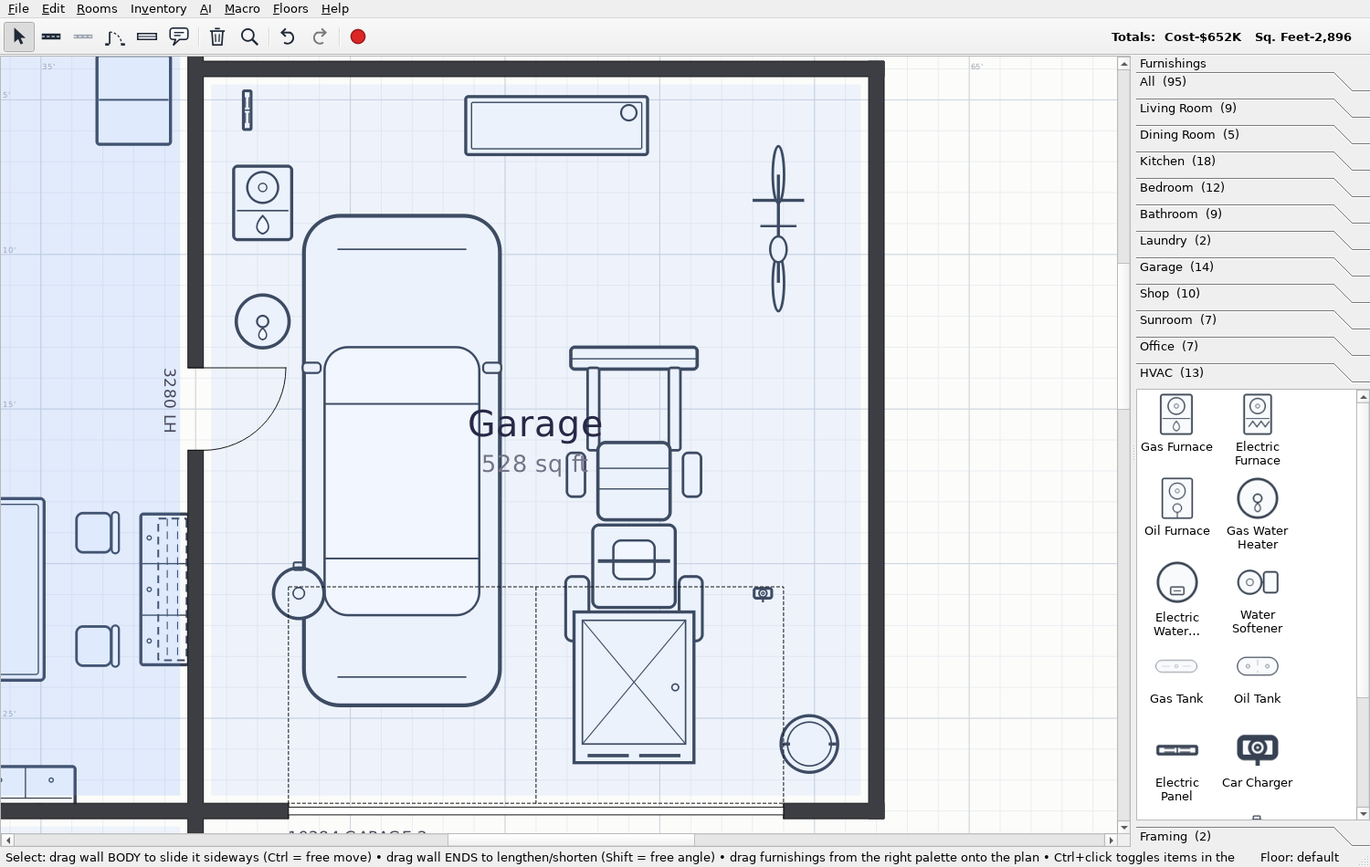
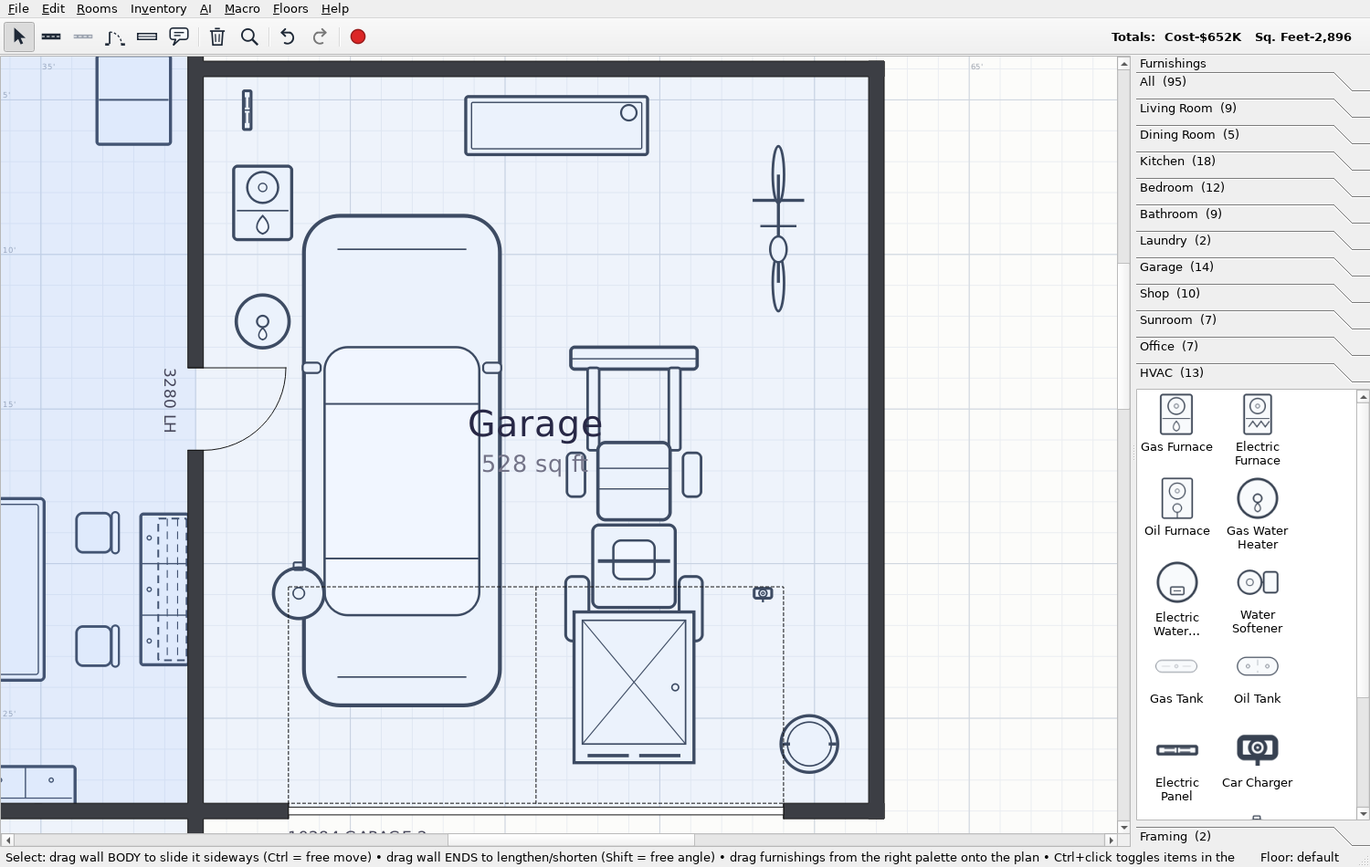
docs: tick P3.5, log the run, close defects 8/13/16, register the P3.7 regression
Plan: P3.5 ticked in the status table; the Progress log's mid-task "NOT DONE"
block replaced by the (2)/(3)/(4) sub-commit entries and four exit checks
(measured deletion vs the census, rider 1's headline, before/after perf,
tooling). New Known-regressions row: an open side of a room is not DRAWN
between P3.5 and P3.7 -- the dashed OpenWall placeholder's producer is gone and
the fact moved onto the outline, where the document always kept it.

Review: defect 8 closed with both halves described; defect 16 closed
structurally; defect 13 recorded as HALF closed, half retargeted, with the
measurement that earns the split -- detection was identical at every zoom
0.25x-4x, the drag was not.

CLAUDE.md: the "no new callers" list is now accurate (coalesce/weld went at
P3.4, the detection engine at P3.5, only OpenWall is still pending); the
Performance section says what replaced the hot path and quotes the measured
64-room numbers; the floors paragraph names the surviving scoped queries.

README: the open-wall paragraph no longer promises a dashed line it does not
currently draw, and says which task restores it.

tests/bench_rooms.py: retitled -- it measured room re-detection and the memo in
front of it, and now measures the wall rebuild and junction pass alone.

Changed region(s): [[0.0, 0.0611, 0.1533, 0.9463]]

diff --git a/tests/bench_rooms.py b/tests/bench_rooms.py
@@ -1,9 +1,12 @@
 #!/usr/bin/env python3
-"""Micro-benchmark for room re-detection cost (the main editor hot path).
+"""Micro-benchmark for `rebuild_all_walls` (the main editor hot path).
 
-`rebuild_all_walls` -> `refresh_rooms` re-detects every room after any wall
-edit.  This builds grids of rooms of growing size and times one
-`rebuild_all_walls`, so we can track the cost as plans get larger.
+It used to end in `refresh_rooms`, re-detecting every room whose nearby walls
+had changed after any wall edit; P3.5 deleted that -- a room's region derives
+from its outline, and the outline holds the walls' own corner vertices, so
+there is nothing to re-detect.  What this now times is the wall rebuild and the
+junction pass alone.  Still worth tracking: it builds grids of rooms of growing
+size and times one `rebuild_all_walls`, so the cost is visible as plans grow.
 
 Run:  python tests/bench_rooms.py [--profile]
 """
@@ -60,9 +63,11 @@ def main():
         print(f"{n}x{n}  {rooms:4d}  {walls:4d}   {dt:8.1f} ms       "
               f"{dt / max(rooms, 1):.2f} ms")
 
-    # memoized incremental refresh -- the realistic per-edit case
+    # the realistic per-edit case.  Before P3.5 this measured the room-detection
+    # MEMO (a no-op rebuild skipped the grid/graph build entirely); it now
+    # measures the wall rebuild itself, which no memo stands in front of.
     sc = build_grid(6)
-    FP.rebuild_all_walls(sc)                   # warm the per-room signatures
+    FP.rebuild_all_walls(sc)                   # warm any caches
     t = time.perf_counter()
     FP.rebuild_all_walls(sc)
     noop = (time.perf_counter() - t) * 1000
@@ -72,7 +77,7 @@ def main():
     t = time.perf_counter()
     FP.rebuild_all_walls(sc)
     edit = (time.perf_counter() - t) * 1000
-    print(f"\n6x6 memoized:  no-op rebuild {noop:.1f} ms   "
+    print(f"\n6x6 incremental:  no-op rebuild {noop:.1f} ms   "
           f"after moving 1 wall {edit:.1f} ms")
 
     if "--profile" in sys.argv:

diff --git a/docs/V5_MIGRATION_PLAN.md b/docs/V5_MIGRATION_PLAN.md
@@ -132,7 +132,7 @@ gap rather than papering over it.
 | ☑ | **P3.2** `RoomItem.outline`; drop `perimeter_corners` | ruff + pytest |
 | ☑ | **P3.3** Wall move = move vertices + split rule | ruff + pytest |
 | ☑ | **P3.4** Topology ops replace coalesce/weld/fracture | ruff + pytest |
-| ☐ | **P3.5** Delete the detection engine | ruff + pytest |
+| ☑ | **P3.5** Delete the detection engine | ruff + pytest |
 | ☐ | **P3.6** Opening anchors | ruff + pytest |
 | ☐ | **P3.7** Delete `OpenWall` | ruff + pytest |
 | ☐ | **P3.8** Perf verification vs P0.3 | ratios recorded |
@@ -259,6 +259,7 @@ Behaviour that is deliberately worse between the task that broke it and the task
 | Broken at | Behaviour | Workaround today | Restored at |
 |---|---|---|---|
 | **P0.5** (fix 4) | Rubber-band-select a room whose edge is a longer party wall, then group + move it — the region no longer follows. The walls captured by the band move; the room does not. | Drag the room by its **label** instead: `_privatize_shared_walls` handles the party wall correctly on that path. | **P4.2** (`extract` replaces the accidental privatisation with a real operation) |
+| **P3.5** | **An open side of a room is not drawn.** Detach a wall from its room and pull a corner away and the side opens — the room keeps its shape and area, and the document says `wall: null` exactly as before — but the vacated stretch renders as nothing rather than as a dashed line. The producer of the dashed `OpenWall` placeholder was `refresh_rooms` → `reloop_open_room` → `bind_room_walls`, all deleted here; the fact itself moved onto the outline (`RoomItem.open_edges()`), which is where the document had always kept it. | None needed for correctness — nothing is lost but the on-screen cue. The room's area, outline and saved file are unaffected. | **P3.7** (`OpenWall` is deleted and a `wall: null` edge renders dashed from the outline, which is the same cue drawn from the one representation instead of a second one) |
 | **P2.3** | **After the first undo, a wall that crosses a junction comes back split** — and if it borders NO room, body-dragging it moves only that segment. Measured at P3.3: one 480″ wall with a mid-span T returns as two 240″ walls. **Narrower than first recorded**: `_collinear_run()` (`walls.py:888`) gathers the whole room *side*, so for a wall on a room perimeter — the common case, and the one a user would notice — both halves still move as one. Verified with a room: `_collinear_run()` gathers 2 of 2. The row applies only to room-less walls, where `self.rooms` is empty and the run short-circuits to `[self]`. | Bind the wall to a room, or drag the halves together. Nothing is lost either way: the **document is unchanged**, since `design_from_scene` planarises to the same canonical form. | ~~P3.4~~ → **retargeted at P3.4 (iv), and the predicted fix was wrong on its own terms.** Re-checked by hand: the 480″ wall still returns as two 240″ segments, `merge_all` does **not** re-merge them, and the body-drag still moves one segment. It must not — the mid-span T is a **degree-3 vertex**, load-bearing for the planar subdivision, and merging through it would destroy planarity. `merge_collinear` refuses for exactly the right reason, so this row was never merge's to close. The fix belongs in the **drag's run-gathering**: `_collinear_run()` (`walls.py`) short-circuits to `[self]` when the wall borders no room, which is precisely the case the row describes. Gathering the run over **vertex adjacency** instead would carry both segments. Unassigned rather than invented — it is one small change, and the honest place is whichever task next touches the drag (**P4.2** extract/join is the nearest) |
 
 ### P0.6 — Cheap render wins
@@ -1846,9 +1847,16 @@ DEMO PORT: `w24` no longer exists as that wall. The demo named it, but ids are
          the chosen wall really has no collinear continuation -- the demo's own
          precondition -- so the first cannot pass by luck.
 
-P3.5  IN PROGRESS  (branch v5-topology) -- the flip has landed; the deletion
-         has not. Logged mid-task per the handoff-spec rule: a successor reads
-         the state from here plus the four riders in the P3.5 task text.
+P3.5  done   (branch v5-topology; five sub-commits)
+ruff:    clean
+pytest:  OFF  497 passed, 5 xfailed in 13.7s
+         ON   497 passed, 5 xfailed in 16.0s
+         DEEP 492 passed, 3 xfailed, 7 deselected in 15.4s
+         (baseline in: P3.4's 491/4/1.)
+commits: ac9ad45 (0) . 600fdef (1) . 02eff1e (2) . 733d7d6 (3) . f07dbdb (4)
+         Logged sub-commit by sub-commit per the handoff-spec rule, so a
+         successor reads the state from here plus the four riders at lines
+         416-424 rather than from a chat summary.
 (0) done   commit ac9ad45 -- doc-only, committed BEFORE any code per rider 2.
          THE RETARGET WAS ITSELF A FINDING: both P3.2 guards' docstrings named
          P3.4 as the task that would close the coordinates-vs-identity gap.
@@ -1890,13 +1898,228 @@ PERF, checked not assumed (the P3.1 lesson): test_bake flagged 8.83 against a
          threshold of 8 on the first full run. Re-ran three times -- 6.31 /
          6.89 / 7.17, absolutes 307-310 ms against P3.3's recorded 297-332 --
          so variance, not the new property read. Same call as P3.3's 7.78.
-NOT DONE: the deletion itself (the ~470 + 34), `enclosing_face` replacing
-         "detect room here" via the lift-to-Design at the six one-shot call
-         sites, the `room_boolean` rewrite (defect 8), defects 13 and 16, the
-         test_rooms.py / test_room_walls.py rewrites, and the headline check --
-         P3.3's Lounge / Front Porch demo (+/-17.5 sf) passing with
-         `refresh_rooms` DELETED, which is rider 1's real proof and can only be
-         run once the deletion lands.
+(2) done   commit 02eff1e -- the region derives from the outline.
+ruff:    clean
+pytest:  OFF  495 passed, 4 xfailed, 1 xpassed / ON same / DEEP 490, 3 xfailed
+files:   rooms.py (path + area_sqft become properties; _translate relocates),
+         walls.py (_DragVertex carries outline edges), items.py + mainwindow.py
+         (three rigid-move sites go through set_region),
+         tests/test_outline.py (+2)
+THE STEP P3.2 AND (1) DID NOT TAKE, and without it the deletion is impossible
+         rather than merely risky. `corners` derived from the outline at P3.2
+         and the corners became real vertex identities at (1) -- but `path` and
+         `area_sqft` were still a stored QPainterPath and a stored float that
+         ONLY `refresh_rooms` refreshed. So an outline that moved by
+         construction still reported a stale area until a detection pass caught
+         up, and deleting that pass would have frozen every number a user reads.
+         Both derive now, memoized on the corner COORDINATES -- not identity,
+         because `relocated_to` returns a NEW vertex for a moved corner and an
+         id-keyed memo would be stale in exactly the case that matters.
+NO EXISTING TEST CHANGED.
+
+(3) done   commit 733d7d6 -- the deletion, and the lift.
+ruff:    clean
+pytest:  OFF  495 passed, 5 xfailed / ON 495/4/1xpassed / DEEP 490, 3 xfailed
+DELETED, 418 lines across 11 top-level definitions, all callerless:
+         `_RoomGrid` (90) + `_WallGraph` (131) -- the two engines, a raster
+         flood-fill and a hand-rolled planar face walk; `_detect_room` (12),
+         `detect_room_region` (6), `trace_room_perimeter` (6); the memo,
+         `room_signature` (23) + `refresh_rooms` (53) + `_room_probe_points`
+         (19); `reloop_open_room` (48); `synthesize_room_edge` (15) and
+         `_wall_along_segment` (15). Plus `bind_room_walls` 70 -> 38.
+         rooms.py 1425 -> 1162 lines.
+`detect_room` SURVIVES AS A NAME, and this is the census's one real divergence
+         on the rooms.py side. The task line lists it among the dead; it has
+         ~40 call sites across the app, the tooling, the fixtures and eleven
+         test modules, and this task's authorized rewrite zone is two test
+         files. Deleting the NAME would have been a rewrite of the suite
+         wearing a deletion's clothes. What the line MEANS is delivered in
+         full: the editor no longer has its own answer to "what is a face". It
+         asks the document's, through `bridge.face_at` -> `enclosing_face`.
+THE LIFT, and why it is allowed where P3.4 point 1 forbade it. That ruling
+         rejected lift-to-Design for EDIT ops, on measurement: an edit runs per
+         mouse event and a full-plan rebuild destroys item identity. "Detect
+         room here" is a ONE-SHOT gesture -- the six call sites (csvio, macro,
+         mainwindow x2, planio, view) each fire once per user action -- so the
+         walk costs no more than the `_RoomGrid` + `_WallGraph` pair it
+         replaces, both of which were also rebuilt per call and one of which
+         was O(walls^2). Single-sourced instead of duplicated.
+THREE THINGS CAME FREE, and they are why the swap is worth making rather than
+         merely equivalent:
+         * DEFECT 16 closes STRUCTURALLY. The grid was sized by `canvas_rect()`
+           and any flood reaching its edge counted as unenclosed, so a plan
+           larger than the canvas silently lost its edge rooms. A graph walk has
+           no canvas in it. Closed by deletion, which is the only kind of fix
+           that cannot regress. Pinned.
+         * every returned edge NAMES the wall covering it, so `bind_room_walls`
+           stopped SEARCHING for a room's own walls and now only attaches them.
+           A room binds its outline as a fact the detection reports.
+         * a wall split at a T yields one edge per SEGMENT -- invariant I5
+           ("every outline edge maps to exactly one wall") holding by
+           construction, where the old tracer dropped pass-through corners and
+           could leave an edge no single wall covered.
+DEFECT 13 -- REPRODUCED BEFORE THE SUBSTRATE WENT, which rider 3 asked for and
+         which is the reason the verdict is worth anything. At zooms 0.25x-4x
+         on the `detach_wall_from_room` path, measured on the code as it stood:
+         * DETECTION was already IDENTICAL at every zoom -- same area, same
+           corners, 5/5. It never read the view.
+         * THE DRAG was not. The same scene-space gesture gave 0 open sides at
+           0.25x and 1 at 0.5x-4x, leaving the wall's far end at y=120 vs y=60.
+         So the defect is real and its mechanism is the drag's zoom terms
+         (`20.0 / _view_scale()` catch radius, `16.0 / view_scale` stick),
+         exactly as rider 3 predicted. Detection half CLOSED and now structural;
+         drag half RETARGETED and left UNASSIGNED, the same disposition the P2.3
+         row got, with P4.2 as the nearest task that touches the drag. NOT
+         "repro substrate removed" -- the substrate was still there and the
+         measurement was taken.
+TWO CORRECTIONS THE LIFT NEEDED, both found by a failing test rather than by
+         reasoning, and both are findings about `trace_faces` as much as about
+         this task:
+         * SPUR PRUNING. A dangling wall stub is IN the wall graph, so the face
+           walk enters it and comes straight back out. Free for a FACE (the
+           excursion encloses no area) and wrong for an OUTLINE: the room grows
+           a corner at the stub's free end, and every consumer that asks "is
+           this room inside the rubber band" answers from it. Caught by
+           test_selection, which is not in the authorized zone and was right not
+           to be changed. `bridge._prune_spurs`.
+         * CANONICAL WINDING. `_inner_faces` picks the inner sign by MAJORITY,
+           decisive from two rooms on but a TIE at exactly one -- a lone wall
+           loop traces two faces of equal area and opposite winding. So a
+           one-room plan came back wound whichever way the rest of the plan
+           happened to vote, and the outline ORDER is serialized. Caught by
+           test_room_walls' idempotent round-trip. Fixed at the one-shot entry
+           to the sign the document already uses (positive shoelace, verified
+           against every face of symmetricP1).
+THE APPLY PATH NOW CARRIES THE DOCUMENT'S VERTEX IDENTITY, one live `Vertex`
+         per document vertex, shared by every wall end and outline edge naming
+         it. The first attempt reconstructed it by WELDING
+         (`share_outline_vertices`) and `test_malformed_v5_is_reported_not_
+         rewelded` caught it within the minute: apply must not repair, and a
+         corner that has drifted 0.3" is a malformed file to be REPORTED, not
+         quietly closed up. The document already knows the identities; reading
+         them is exact where welding is a guess.
+
+(4) done   commit f07dbdb -- defect 8, the predicates, the privatize ruling.
+ruff:    clean
+pytest:  OFF  497 passed, 5 xfailed / ON 497/5 / DEEP 492, 3 xfailed
+DEFECT 8, and it was TWO faults with ONE cause -- `room_boolean` worked from a
+         re-traced boundary rather than from what the rooms said they were made
+         of. (a) It DELETED WALLS THAT WERE NOT ITS OWN: inputs came from
+         `bounding_walls()`, a proximity query with no floor filter, and the op
+         removes everything handed to it -- so a combine took the wall a third
+         room shared with an input, breaking that room open, and any wall of any
+         other FLOOR whose body touched the band. (b) It FORCED every result
+         wall to "interior", downgrading 6" exterior walls to 4 1/2" ones.
+         Both fixed at the source: inputs come from the room's OUTLINE
+         (`room_walls`), a wall still bordering a non-input room is kept, and
+         each result edge inherits type and floor from whichever input wall runs
+         along it. TWO REGRESSION TESTS, both CONFIRMED FAILING against the old
+         code before being kept -- and the first fixture was rebuilt on the
+         shared-wall model, because two `make_room` calls leave a coincident
+         PAIR at the boundary and a duplicate wall is a different problem.
+THE TWO PREDICATES, rewritten and not deleted, exactly as rider 4 tabled.
+         `room_owns_walls` and `walls_cover_room` keep their criteria and read
+         the outline through a new `room_walls(room)` -- one answer to "which
+         walls are this room's?" -- instead of the parallel bound-wall list the
+         deleted binder maintained.
+`_privatize_shared_walls` ASSESSED IN-TASK: KEEP. Its reason is untouched -- a
+         party wall is one wall, so a room moving off it must stop owning it.
+         It needed one repair to stay honest: it swapped the room's BOUND wall
+         for a private copy and left the OUTLINE naming the shared one, and the
+         outline is now the authority, so `room_walls` went on handing bake and
+         room_boolean a wall the room had just given up.
+         AND IT WORKS FOR A REASON WORTH WRITING DOWN: `_translate` RELOCATES
+         corners, and a relocation mints a new `Vertex` that only the ends
+         REBOUND to it follow -- so a wall the room no longer owns simply stays
+         on the old corner, with nothing holding it back. P4.2's real `extract`
+         still replaces the shape of it; `_perimeter_span` still falls with
+         `fracture_delete_wall` at P4.1.
+
+EXIT 1 -- MEASURED DELETION vs THE CENSUS. Rider 4 tabled ~470 from rooms.py
+         + 34 from walls.py. MEASURED: 418 in whole definitions plus 32 from
+         `bind_room_walls`' shrink = 450 of the ~470, and 0 from walls.py.
+         Two divergences, both reported rather than forced:
+         * `_wall_along_segment` (15) is REPLACED, not deleted, by `_edge_wall`
+           (48) -- LARGER, because it absorbed the job the deleted three-priority
+           search was doing: find the wall behind an outline edge that came from
+           a FILE and names none. It also had to accept PARTIAL cover, or a v4
+           reload stops agreeing with the live scene about a side whose corner
+           was dragged away, and the round-trip stops being idempotent.
+         * `_WallBBoxIndex` (34) CANNOT DIE, and P3.4 (iv) is why. That
+           sub-commit reported it as P3.5's on the grounds that `refresh_rooms`
+           was its last caller -- but the SAME sub-commit refused the adjacency
+           swap in `_compute_wall_junctions` and said so at length: an unwelded
+           crossing shares no corner, so bbox search is the only thing that can
+           answer there. `_compute_wall_junctions` stays, so its index stays. A
+           line dies when its LAST caller dies, and P3.4 (iv)'s own ruling
+           created the caller that outlives this task.
+EXIT 2 -- RIDER 1'S HEADLINE CHECK, PASSING, AND THE ASSERTIONS DID NOT MOVE.
+         `test_a_dragged_wall_resizes_the_rooms_it_borders` -- the editor half
+         of the Lounge / Front Porch demo -- still asserts equal and opposite
+         resizing with the total unchanged, now with `refresh_rooms` DELETED.
+         Written at P3.3 the numbers came from detection; they now arrive
+         because the rooms' outlines hold the very vertices the divider holds.
+         A `not hasattr(fp, "refresh_rooms")` guard makes the claim explicit
+         rather than implied, so the test cannot quietly stop proving it.
+EXIT 3 -- PERF, MEASURED NOT ASSUMED: the same harness on the same machine at
+         c133205 (pre-P3.5) vs HEAD. P0.3 warned that `rebuild` at 2.7 was
+         ALREADY sub-linear and that a regression there would be a real
+         finding. It improved.
+                        before (n=4 -> n=8)      after
+           rebuild      1.2 -> 3.7   r 3.05     1.0 -> 2.4    r 2.31
+           bake        44.8 -> 299.1 r 6.68     6.9 -> 28.0   r 4.03  <- 10.7x
+           ungroup     45.9 -> 300.7 r 6.55    13.5 -> 106.1  r 7.85  <- 2.8x
+           undo        21.3 -> 157.7 r 7.40    20.9 -> 123.5  r 5.92
+           group       27.7 -> 360.1 r 12.99   33.3 -> 370.1  r 11.10 (P3.8's)
+         `bake` is the headline and the mechanism is exactly the deletion: a
+         group move ended in `rebuild_all_walls` -> `refresh_rooms`, which
+         re-detected every room the move touched. Nothing re-detects now. The
+         ungroup RATIO worsened while its absolute fell 2.8x -- it is
+         xfail(strict=False) -> P3.8 either way, and P3.8 owns the reading.
+EXIT 4 -- TOOLING. `python docs/make_gallery.py` and
+         `python examples/make_examples.py` both run; images regenerated.
+         `08-open-walls.png` legitimately changed and README's open-wall
+         paragraph was corrected to match -- see the new Known-regressions row.
+
+CHANGED-TEST LEDGER, one line each, since this is the second-biggest such risk
+         in the plan after P3.4:
+         * test_rooms.py [AUTHORIZED]: test_region_follows_wall_move rewritten
+           -- coordinate assignment -> corner relocation, because a bare
+           `w.p1 = ...` is SPLIT-ON-WRITE by P3.1's ruling, so the old test
+           replaced wall ends and asked detection to notice. Three
+           room_signature / refresh-memo tests DELETED with the memo they
+           measured. +4: defect 13 (view-independence), defect 16 (no canvas
+           clip), and the two defect-8 regressions.
+         * test_room_walls.py [AUTHORIZED]: test_wall_stretch_keeps_binding
+           rewritten, same one-line reason. +2 assertions in the privatize test.
+         * test_open_walls.py [DIVERGENCE -- the whole file]: this is P3.7's
+           rewrite arriving early, because P3.5 deletes the PRODUCER. An open
+           side was an ITEM (a dashed `OpenWall`, regenerated by
+           `reloop_open_room` + `bind_room_walls`); it is now a fact about the
+           outline, reported by the new `RoomItem.open_edges()` -- which is
+           where `bridge._rooms_of` has emitted it since P1.4. The scene was
+           carrying a second, item-shaped representation of something the
+           document already said. `test_open_wall_is_editable` DELETED: it
+           asserted drag controls on a placeholder nothing constructs. The
+           CLASS still dies at P3.7, as planned.
+         * test_design_bridge.py + test_verify_design.py [OUTSIDE THE ZONE, and
+           named as such]: planc1's I6 characterization 17 -> 13. planc1's four
+           divider walls stop 1.5" short, so each is a dangling STUB; the old
+           tracer carried those out-and-back excursions into the outline (which
+           is how Hall and M Bath each held 21 corners, several at the free end
+           of a wall nowhere near the room). Spur pruning drops them, so four
+           walls only a spur ever touched stop being claimed. Same fault
+           classes, same Hall/M Bath collapse, same areas -- all three verified.
+         * test_wall_move.py: docstrings + the `refresh_rooms`-is-gone guard.
+           The ASSERTIONS DID NOT MOVE; that is exit check 2.
+         * test_outline.py: +3 (the region derives; the memo is keyed on
+           coordinates; plus (1)'s pair).
+PROCESS NOTE, since the working agreement is explicit about the mechanism: a
+         `git checkout floorplanner/mainwindow.py`, used to undo a deliberate
+         break-it-to-prove-the-test experiment, discarded that file's
+         uncommitted work along with it. Reapplied and re-verified. The rule is
+         written for handed-back DOC edits; it applies to uncommitted code just
+         as literally, and the safe move is to make the experiment in a copy.
 
 P3.4  done   (branch v5-topology; four sub-commits + two riders)
 ruff:    clean

diff --git a/docs/CODE_REVIEW_v2.md b/docs/CODE_REVIEW_v2.md
@@ -70,17 +70,17 @@ Ranked by blast radius; each mapped to the phase that closes it.
 | 5 | `RoomItem` has no `itemChange` → dangling `WallItem.rooms` at 5 sites | `rooms.py`, `mainwindow.py:472,592,677,1234,1287` | **P0.5** |
 | 6 | 13 `except ValueError: continue` silently delete an opening, incl. on load | `walls.py:209,342,1079`; `mainwindow.py:1304` … | **P3.6** |
 | 7 | Four `p1`/`p2` mutations don't re-base `op.s` | `walls.py:885,954,199`; `mainwindow.py:531` | **P3.6** |
-| 8 | `room_boolean` deletes neighbours' and other floors' walls, forces `"interior"` | `mainwindow.py:674‑698` | **P3.5** |
+| 8 | ~~`room_boolean` deletes neighbours' and other floors' walls, forces `"interior"`~~ **FIXED at P3.5.** Two faults, one cause: the op worked from a **re-traced boundary** rather than from what the rooms said they were made of. Its inputs' walls came from `bounding_walls()` — a proximity query over the whole scene with **no floor filter** — and the op removes everything it is handed, so a combine took the wall a third room shared with an input (breaking that room open) and any wall of any other floor whose body touched the band. And every result wall was built `"interior"`, so a combine downgraded 6″ exterior walls to 4½″ ones. Fix: inputs come from each room's **outline** (`room_walls`), a wall still bordering a non-input room is kept, and each result edge inherits type and floor from whichever input wall runs along it (exterior wins a tie). Two regression tests, both verified to fail against the old code before being kept. | `mainwindow.py` (`_selected_room_shapes`, `room_boolean`, `_source_edge`) | **P3.5 (done)** |
 | 9 | Coalesce absorbs openings with no dedup → stacked doors (3 found in `planc1`) | `walls.py:205‑212` | **P3.4** |
 | 10 | Rubber-band selection creates walls | `view.py:445` | **P0.5** |
 | 11 | Four competing z-order systems, two of which run on every wall click | `walls.py:723‑727` + 14 sites | **P4.5** |
 | 12 | 10 query paths ignore the floor filter | `walls.py:81,266`; `rooms.py:522,531` … | **P1.4** |
 | 12a | ~~**`WallItem._attached` is one of defect 12's unfiltered paths, and P3.3 raises its stakes.**~~ **FIXED at P3.3.** A cross-floor coincident end wrongly dragged by the scan was a *transient* bug that ended with the drag; promoting that discovery into real vertex sharing would have made it permanent, because a vertex carries exactly one level — so unfiltered promotion would either violate **I2** outright or silently rewrite a wall's level. Fix: `w.floor != self.floor` at the **loop head** of the scan, so cross-level sharing is impossible by construction rather than filtered afterwards. Two tests pin it, both built on geometrically identical walls on two floors (what a leaking scan cannot tell apart): the other floor is neither shared with nor dragged, and is never even scanned. | `walls.py` (`mousePressEvent`, the `_attached` scan) | **P3.3 (done)** |
-| 13 | Detection result depends on view zoom (from the deleted `test_zzprobe`) | `detach_wall_from_room` path | **P3.5** |
+| 13 | **Detection result depends on view zoom** (from the deleted `test_zzprobe`). **HALF CLOSED at P3.5, half RETARGETED — and it was reproduced first**, per the task's rider 3 (*a defect closed by the disappearance of its measuring instrument is not closed*). Measured at zooms 0.25×–4× on the `detach_wall_from_room` path **before** deleting anything: **detection was already identical at every zoom** (same area, same corners, 5/5 runs) — it never read the view. **The drag was not**: the same scene-space gesture gave 0 open sides at 0.25× and 1 at 0.5×–4×, and left the wall's far end at y=120 versus y=60. The zoom terms are the drag's — `mousePressEvent`'s `20.0 / _view_scale()` endpoint catch radius and `_project_to_orthogonal`'s `16.0 / view_scale` stick. **Detection half:** closed and now structural — `topology.enclosing_face` is a question about the wall graph with no pixel, cell or canvas in the answer (`test_detection_does_not_depend_on_the_view`). **Drag half:** unassigned, exactly as the P2.3 regression row was left — it is a tolerance question about a mouse gesture, and the honest place is whichever task next touches the drag (**P4.2** extract/join is the nearest). | detection: `rooms.py` (deleted); drag: `walls.py` (`mousePressEvent`, `_project_to_orthogonal`) | **P3.5 (detection) · unassigned (drag)** |
 | 14 | `GroupItem.boundingRect` recomputes the oriented box 3× per paint | `items.py:509‑528` | **P0.6** |
 | 15 | `_update_totals` full-scans on every `scene.changed` | `mainwindow.py:98,342` | **P0.6** |
 | 17 | **Deleting a room's own perimeter wall is silently a no-op.** `fracture_delete_wall` keeps every stretch running along a room perimeter and rebinds it, so the user presses Delete and nothing happens — no wall removed, no message. Measured at P0.4: 4 walls in, 4 walls out, 0 open edges. | `walls.py:300‑354` | **P4.1** |
-| 16 | **Room detection is silently clipped to `canvas_rect()`** — a plan larger than the canvas loses its edge rooms with no warning. Found by the P0.3 harness, not by any test. | `rooms.py:29` (`_RoomGrid`) | **P3.5** |
+| 16 | ~~**Room detection is silently clipped to `canvas_rect()`** — a plan larger than the canvas loses its edge rooms with no warning. Found by the P0.3 harness, not by any test.~~ **CLOSED STRUCTURALLY at P3.5.** `_RoomGrid` rasterised onto a grid sized by `canvas_rect()` and treated any flood reaching the grid edge as unenclosed, so the clip was inseparable from the method. The replacement is a walk over the wall graph, which has no canvas in it at all — closed by deletion rather than by a bounds check, which is the only kind of fix that cannot regress. Pinned by `test_detection_is_not_clipped_to_the_canvas` (a room built well past the canvas edge detects and reports its true area). | `rooms.py:29` (`_RoomGrid`, deleted) | **P3.5 (done)** |
 | 19 | **The PNG extractor leaves its walls unwelded — and it has TWO arms.** Detected walls are written out with no weld pass, and per the corrected **F5** nothing welds them afterwards either, because load doesn't and coalesce doesn't. So every extracted plan is born with open junctions — precisely the condition that leaks room detection between spaces. Measured at P1.6: 2 unwelded ends on the `test_extract` fixture. **File arm:** `fp_extract.py` writes a plan file which is later opened — closes automatically once P2.1 welds on load. **In-app arm:** `extract_from_reference` (`mainwindow.py:1644`) injects walls *directly into the live scene* and commits, bypassing every load path, so **P2.1's weld-on-load never sees them**; this arm needs an explicit weld pass after the detected walls are written. Ride it with P2.1 — closing only the file arm would leave the exact reported reproduction alive. Not caught by shadow mode either (an `unwelded_ends` rise is report-only: the 9″ tolerance is a gesture, not an invariant), so it must be fixed on purpose rather than by a gate. | `fp_extract.py`; `mainwindow.py:1644` (`extract_from_reference`) | **P2.1 (both arms)** |
 | 18 | ~~**`inner_faces` drops the largest INNER face as the "outer boundary" — discarding a real room.**~~ **FIXED at P1.3b.** The true outer boundary is opposite-wound and already excluded by the majority-sign filter, so `inner[1:]` threw away the biggest *room* (symmetricP1's Garage, 868.5 sf). Fix: keep the majority winding, drop *all* opposite-wound faces (one per component), never by size — in both `design/topology.py` and `tools/migrate_to_design_v5.py`. Retargeted P3.5 → **P1.3b** because P2.1's import traces outlines, so the bug would silently fall back to stored corners for the largest room of every imported plan. | `design/topology.py`, `tools/migrate_to_design_v5.py` (`inner_faces`) | **P1.3b (done)** |
 | 20 | **Merging a collinear run can REVERSE the survivor without swapping `left`/`right`, silently flipping every side on that wall.** `merge_collinear` wrote `w1.v1, w1.v2 = far1, far2`, and `far1` is the survivor's *far* end — so whenever the run extends behind the survivor's `v1`, the merged wall comes out pointing the other way while its `left`/`right` stay as written. Every side on that wall is then on the wrong side. **Found by single-sourcing at P3.4(i)** — not by a test, not by review: it only became visible when the same decision logic had to serve a scene that *renders* sides. **Fixed in the pure op at P3.4(i)** (the survivor keeps its own direction; every other end projects onto its axis), with its own test. **Still live scene-side** in `_coalesce_wall_impl`, which is why this is a defect and not a footnote: coalesce runs on wall draw/move release, on load/import, on ungroup and from Edit ▸ Coalesce all walls now, so the flip is reachable in shipping code paths **today**. It **dies at P3.4(iv)**, when the scene-side callers are retired.<br><br>**The instructive part is why nothing caught it.** A reversal slips straight past **I6**, because I6 checks that a wall's sides *agree with the rooms that name it* as a **set** — not **which** side is which. That is precisely the blind spot the P1.3 winding-pin test was built for ("without this, a flipped winding swaps every left/right and I6 still passes"), and this is the **first wild specimen proving the blind spot is real** rather than theoretical. If a cheap side-orientation invariant ever joins the deep three, this defect is its justification — *noted, not scoped.* | `design/topology.py` (`merge_collinear`, fixed); `walls.py` (`_coalesce_wall_impl`, still live) | **P3.4** — *pure op fixed at (i); scene-side dies at (iv)* |

diff --git a/CLAUDE.md b/CLAUDE.md
@@ -10,7 +10,7 @@ This file provides guidance to Claude Code (claude.ai/code) when working with co
   - Three payload methods live in `planio.py` and are deliberately distinct: `snapshot()` (canonical v5 doc — undo + dirty), `design_document()` (what gets written: snapshot + provenance + unmodelled settings + `active_floor`), and `serialize()` (legacy v4, **only** for File ▸ Export legacy v4). Submodules use Qt + lower-layer **star imports**; the `walls↔rooms` cycle is broken with 4 late (function-local) imports. When adding cross-module refs, keep the import direction acyclic (items←walls←rooms; UI imports the scene layer) and use a late import only to close a genuine cycle.
 - Scene units are **inches** (1 scene unit = 1 inch). Canvas size comes from `SETTINGS` via `canvas_rect()`.
 - **Shared-wall model:** a `WallItem` carries a list `rooms` (the rooms it borders); on a boundary between two rooms there is **one** shared wall, not a duplicate per room. `RoomItem.bind_wall`/`unbind_wall` add/remove the association without stealing or deleting. Overlapping same-type walls within the wall-snap grid (6") **coalesce** into one (`coalesce_wall`/`coalesce_all` → `_coalesce_wall_impl`), gated by `SETTINGS["auto_coalesce"]`; it runs on wall draw/move release, on load/import, on ungroup, and via Edit ▸ Coalesce all walls now. This is also the big perf lever — coalescing a messy plan (e.g. 1492 walls → 85) cuts every `rebuild_all_walls` proportionally. Deleting a wall **fractures** it (`fracture_delete_wall`): the stretches along a room perimeter are kept (rebound), the rest removed; a wall bordering no room is deleted whole. Moving a room privatizes its shared walls first (`_privatize_shared_walls`) so the neighbour isn't dragged; grouping a room duplicates its walls into the group (`duplicate_wall`). Grouped walls never coalesce (the `group() is None` guard). FILE_VERSION 3 stores `"rooms": [names]`; load re-binds by geometry so v1/v2 files still load.
-- **Floors (multi-floor, FILE_VERSION 4):** every `WallItem`/`RoomItem`/`FurnishingItem`/`GroupItem` carries a `floor` (auto-tagged with the active floor via `active_floor()` at creation; `OpeningItem` uses `self.wall.floor`). The authoritative roster is `MainWindow.floors` (`model.Floor` dataclasses) + `self.active_floor`; `_sync_floor_state()` mirrors it into config's **runtime cache** (a mutable dict behind `active_floor()`/`set_floor_state()`/`floor_display_mode()` — NOT a bare global, because star-imports snapshot rebindable strings). You edit ONE active floor; the geometry hot paths (`_RoomGrid`/`_WallGraph`/`refresh_rooms`/`coincident_walls`/`nearest_wall_*`/`_compute_wall_junctions`/`bind_room_walls`/`_WallBBoxIndex`) all filter to the relevant floor so floors never interact. `paint()` flat-grays non-active floors (`floor_display_mode`); `apply_floor_visibility` hides/disables them. The model emits `floors` + per-item `floor`; `active_floor` is **view state** — kept OUT of `serialize()` (so switching floors isn't undoable/dirty) but written to the file by `_write_plan`. v1–v3 files migrate to one `default` floor.
+- **Floors (multi-floor, FILE_VERSION 4):** every `WallItem`/`RoomItem`/`FurnishingItem`/`GroupItem` carries a `floor` (auto-tagged with the active floor via `active_floor()` at creation; `OpeningItem` uses `self.wall.floor`). The authoritative roster is `MainWindow.floors` (`model.Floor` dataclasses) + `self.active_floor`; `_sync_floor_state()` mirrors it into config's **runtime cache** (a mutable dict behind `active_floor()`/`set_floor_state()`/`floor_display_mode()` — NOT a bare global, because star-imports snapshot rebindable strings). You edit ONE active floor; the geometry hot paths (`face_at`/`coincident_walls`/`nearest_wall_*`/`_compute_wall_junctions`/`bind_room_walls`/`_WallBBoxIndex`) all filter to the relevant floor so floors never interact — and `design_from_scene`/`face_at` are level-scoped *by construction* (levels outer, items inner) rather than by a filter. `paint()` flat-grays non-active floors (`floor_display_mode`); `apply_floor_visibility` hides/disables them. The model emits `floors` + per-item `floor`; `active_floor` is **view state** — kept OUT of `serialize()` (so switching floors isn't undoable/dirty) but written to the file by `_write_plan`. v1–v3 files migrate to one `default` floor.
 - Headless macro tool (for AI/script-driven edits): the in-app hook is `MainWindow.run_macro()` / `MacroRunner` plus `export_canvas`/`load_path`/`save_path`/`scene_summary`; the driver is `fp_macro.py`. Token grammar is in `docs/macro_language.md`. Note: don't synthesize Ctrl-modified key events headlessly — it leaks `QApplication.keyboardModifiers()`; route shortcuts/arrows through app methods (as `MacroRunner` does).
 - PNG → plan extractor: `fp_extract.py` (numpy + `QImage`, no OpenCV/Pillow). Detects rectilinear walls and writes `floorplanner-json`. Gotchas: a `QApplication` must exist before `QImage` decodes a PNG (image plugins); keep the `QApplication` alive in a module global (a local gets GC'd and crashes `MainWindow`); copy QImage buffers into numpy (`arr.copy()`) — a view into the freed `QImage` segfaults. Its `setup_app()` sets the app font, so in-process tests use the conftest app/module (the `fp` fixture), not `setup_app()`.
 
@@ -18,8 +18,10 @@ This file provides guidance to Claude Code (claude.ai/code) when working with co
 The file format and domain model are moving to `floorplanner/design/design-schema.v5.json` (vendored at P0.7; pointer at `docs/design-schema.v5.md`).
 Read `docs/V5_MIGRATION_PLAN.md` before changing walls/rooms/items/mainwindow —
 it says which code is being deleted and in which phase. Do not add new callers of
-`detect_room`, `refresh_rooms`, `bind_room_walls`, `coalesce_*`, `weld_all` or
-`OpenWall`; they are all scheduled for removal in Phase 3.
+`OpenWall` (removed at P3.7). `coalesce_*` / `weld_all` went at P3.4 (use
+`merge_wall` / `merge_all` / `weld_scene` / `normalize_walls`); the room-detection
+engine went at P3.5 (`detect_room` now lifts the scene to a `Design` and asks
+`topology.enclosing_face`; `refresh_rooms` is gone entirely).
 
 ## Generated assets — never hand-edit
 
@@ -28,7 +30,8 @@ it says which code is being deleted and in which phase. Do not add new callers o
 
 ## Performance
 
-- Room detection is the editor hot path: `rebuild_all_walls` → `refresh_rooms`. Three layers keep it fast (≈50–100× vs the original, cost scaling with the edit not the plan): (1) build the shared `_RoomGrid` + `_WallGraph` **once per pass**, not per room; (2) `rebuild` takes a shared `_WallIndex` so `coincident_walls`/`_joined_at` are O(local); (3) `refresh_rooms` is **memoized** — `room_signature()` (via a `_WallBBoxIndex`) re-detects only rooms whose nearby walls changed, skipping the grid/graph build when nothing is dirty. Don't memoize the wall *path* build — profiled as already cheap; the cost is the neighbour queries. `tests/bench_rooms.py` measures it.
+- **Room detection is no longer on the edit path at all (P3.5).** `rebuild_all_walls` used to end in `refresh_rooms`, which re-detected every room whose nearby walls had changed — a raster flood-fill plus a planar face walk, with a memo (`room_signature`) in front of it to keep the cost down. All of it is deleted. A `RoomItem`'s `path` and `area_sqft` **derive** from its `outline`, and the outline's corners are the very `Vertex` objects the walls hold, so a wall move updates the rooms it borders by construction. Measured effect on the P0.3 harness at 64 rooms: `bake` 299 ms → 28 ms, `rebuild` 3.7 ms → 2.4 ms. What remains: `rebuild` takes a shared `_WallIndex` so `coincident_walls`/`_joined_at` are O(local). Don't memoize the wall *path* build — profiled as already cheap; the cost is the neighbour queries. `tests/bench_rooms.py` measures it.
+- "Detect room here" (the Room tool, CSV import, macro `room`, paste, legacy load) is `rooms.detect_room` → `design.bridge.face_at` → `topology.enclosing_face`: a **one-shot lift** of the level's walls into a `Design`. That is deliberately the opposite of the rule for edit ops (P3.4 forbids lift-to-Design there, because a per-event full-plan rebuild destroys item identity) — a detection is one user gesture, so it can afford the walk and gets one shared definition of "what is a face" instead of a second one in the editor.
 - The view (`PlanView`) uses `FullViewportUpdate` — **every** change repaints all ~N items, so anything that fires per-event on a big plan is costly. Mouse-wheel zoom is **coalesced**: `wheelEvent` accumulates `angleDelta` and a one-shot 16 ms timer applies one `scale()` in `_apply_zoom`. Without this, a high-res wheel/trackpad emits dozens of events per notch → dozens of full repaints → multi-second stalls on a large plan. Keep any new per-event view work off the synchronous path. `tests/test_view.py` guards the coalescing.
 - Walls render as one solid network: each `WallItem` fills its body with **no pen** (overlapping greys merge seamlessly) and draws its dark outline **clipped** to its bounds minus neighbouring wall bodies, so T/cross/L junctions have no inner seam. The clip (`_outline_clip`) is cached by `_compute_wall_junctions(scene)` — a single pass at the end of `rebuild_all_walls`, after every wall's `_solid` footprint is current (it needs all neighbours up to date, so it can't live in per-wall `rebuild()`). Uses the `_WallBBoxIndex` for O(local) neighbour lookup. Don't move junction work into `paint()` — path booleans per repaint would stall.
 

diff --git a/README.md b/README.md
@@ -46,12 +46,14 @@ console script), plus bundled fonts and artwork.
   are locked while it belongs to the room — right-click it and **Detach
   wall from room** to unlock its corners (the wall stays part of the room).
   Drag a corner along the wall (Shift for any angle) and where it pulls
-  away from its neighbour that side **opens**: a dashed **open wall**
-  bridges the gap and keeps the room closed for its area — so rooms no
-  longer need a wall on every side. Slide that partly-open wall and the
-  dashed segment travels with it while both adjoining walls stretch; drag
-  the wall back to the corners and the gap closes and the wall fuses back
-  into the room (right-click to detach it again). Right-click a room name
+  away from its neighbour that side **opens**: the room keeps its shape and
+  its area across the gap, so rooms no longer need a wall on every side.
+  Slide that partly-open wall and the opening travels with it while both
+  adjoining walls stretch; drag the wall back to the corners and the gap
+  closes and the wall fuses back into the room (right-click to detach it
+  again). *(An open side is not currently drawn — it was a dashed
+  placeholder until the v5 topology work replaced it with a property of the
+  room's own outline, and it is redrawn from that at P3.7.)* Right-click a room name
   for an **inventory** — its
   properties plus every furnishing and opening in the room, in an aligned
   table you can copy as TSV for Excel. Rooms can be copied and pasted
